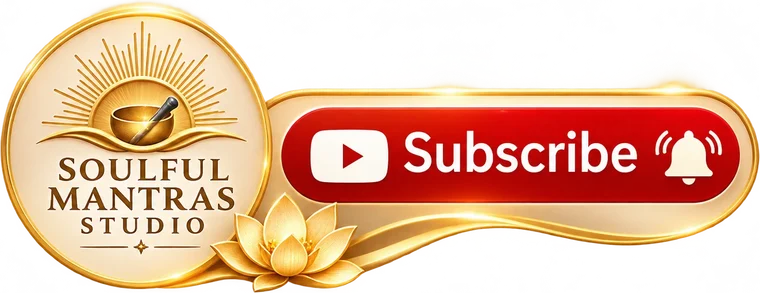
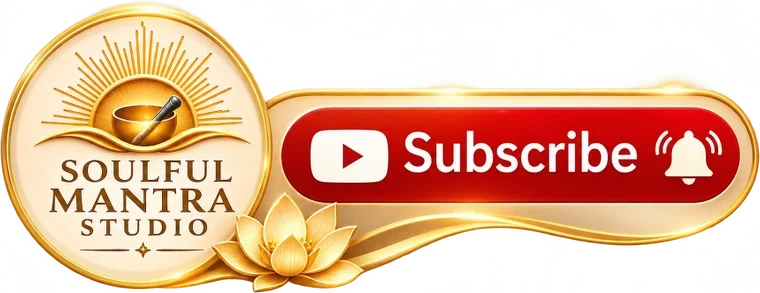
feat(branding): update subscribe badge to 'Soulful Mantra Studio' with dedicated light and dark mode assets

Changed region(s): [[0.0, 0.0922, 0.3632, 0.8908]]

diff --git a/src/features/mantras/MantraStudio.tsx b/src/features/mantras/MantraStudio.tsx
@@ -51,6 +51,8 @@ const ART = {
   namaste: { src: '/marketing/mantras/namaste.webp', w: 420, h: 581 },
   lockup: { src: '/marketing/mantras/lockup.webp', w: 720, h: 502 },
   subscribe: { src: '/marketing/mantras/subscribe-badge.webp', w: 760, h: 293 },
+  subscribeLight: { src: '/marketing/mantras/subscribe-badge-light.webp', w: 760, h: 293 },
+  subscribeDark: { src: '/marketing/mantras/subscribe-badge-dark.webp', w: 760, h: 293 },
 };
 type ArtKey = keyof typeof ART;
 
@@ -697,7 +699,7 @@ function MantraHub() {
     description:
       `Read and chant Sanskrit mantras with Devanagari text, transliteration, plain-English meaning and a soft studio recording. Ganesha, Lakshmi, Kubera, Surya, Dhanvantari and Tulsi mantras for morning, evening and festival puja.`,
     url: MANTRA_BASE_URL,
-    image: thumb(MANTRAS[0].videos[0].id),
+    image: MANTRAS[0]?.videos?.[0] ? thumb(MANTRAS[0].videos[0].id) : '/marketing/mantras/soulful-mind-studio-logo.webp',
     jsonLd: [
       {
         '@context': 'https://schema.org', '@type': 'CollectionPage', name: 'Soulful Mind Studio: Mantra Library', url: MANTRA_BASE_URL,
@@ -815,8 +817,8 @@ function MantraHub() {
               Long, soft recordings for morning, the evening lamp, festival puja and sleep. Subscribe and the next mantra reaches you the day it is released.
             </p>
             <a href={MANTRA_SUBSCRIBE_URL} target="_blank" rel="noopener noreferrer" className="sms-btn" onClick={() => t('MANTRA_SUBSCRIBE_BADGE')}
-              aria-label="Subscribe to Soulful Mind Studio on YouTube" style={{ display: 'inline-block' }}>
-              <img src={ART.subscribe.src} alt="" width={ART.subscribe.w} height={ART.subscribe.h} loading="lazy" decoding="async"
+              aria-label="Subscribe to Soulful Mantra Studio on YouTube" style={{ display: 'inline-block' }}>
+              <img src={palette.isDark ? ART.subscribeDark.src : ART.subscribeLight.src} alt="Subscribe to Soulful Mantra Studio on YouTube" width={ART.subscribe.w} height={ART.subscribe.h} loading="lazy" decoding="async"
                 style={{ display: 'block', width: 'min(100%, 340px)', height: 'auto' }} />
             </a>
           </div>
@@ -1120,8 +1122,8 @@ function MantraPassSales() {
           <figure style={{ margin: 0, padding: 'clamp(14px, 2.2vw, 22px)', borderRadius: 30, background: GOLD_BAR,
             boxShadow: palette.isDark ? '0 30px 70px rgba(0,0,0,.55)' : '0 30px 70px rgba(122,95,68,.28)' }}>
             <div style={{ display: 'grid', gridTemplateColumns: 'repeat(3, 1fr)', gap: 6, borderRadius: 16, overflow: 'hidden' }}>
-              {MANTRAS.slice(0, 9).map((m) => (
-                <img key={m.slug} src={`https://i.ytimg.com/vi/${m.videos[0].id}/mqdefault.jpg`} alt="" width={320} height={180}
+              {MANTRAS.filter((m) => m.videos && m.videos.length > 0).slice(0, 9).map((m) => (
+                <img key={m.slug} src={`https://i.ytimg.com/vi/${m.videos![0].id}/mqdefault.jpg`} alt="" width={320} height={180}
                   style={{ width: '100%', aspectRatio: '16 / 9', objectFit: 'cover', display: 'block' }} />
               ))}
             </div>
@@ -1171,7 +1173,7 @@ function MantraPassSales() {
               const m = findMantra(f.slug) || MANTRAS[0];
               return (
                 <div key={f.h} className="sms-card" style={{ ...box, padding: 16, display: 'flex', flexDirection: 'column' }}>
-                  <img src={thumb(m.videos[0].id)} alt="" loading="lazy" width={480} height={360}
+                  <img src={m.videos && m.videos[0] ? thumb(m.videos[0].id) : (m.cover || '/marketing/mantras/emblem-sunburst.webp')} alt="" loading="lazy" width={480} height={360}
                     style={{ width: '100%', aspectRatio: '16 / 9', objectFit: 'cover', borderRadius: 16, display: 'block', marginBottom: 14 }} />
                   <h3 style={{ margin: '0 6px 6px', fontFamily: SERIF, fontSize: 25, fontWeight: 500, lineHeight: 1.2 }}>{f.h}</h3>
                   <p style={{ margin: '0 6px 6px', fontSize: 14.5, lineHeight: 1.65, color: palette.INK2 }}>{f.b}</p>
